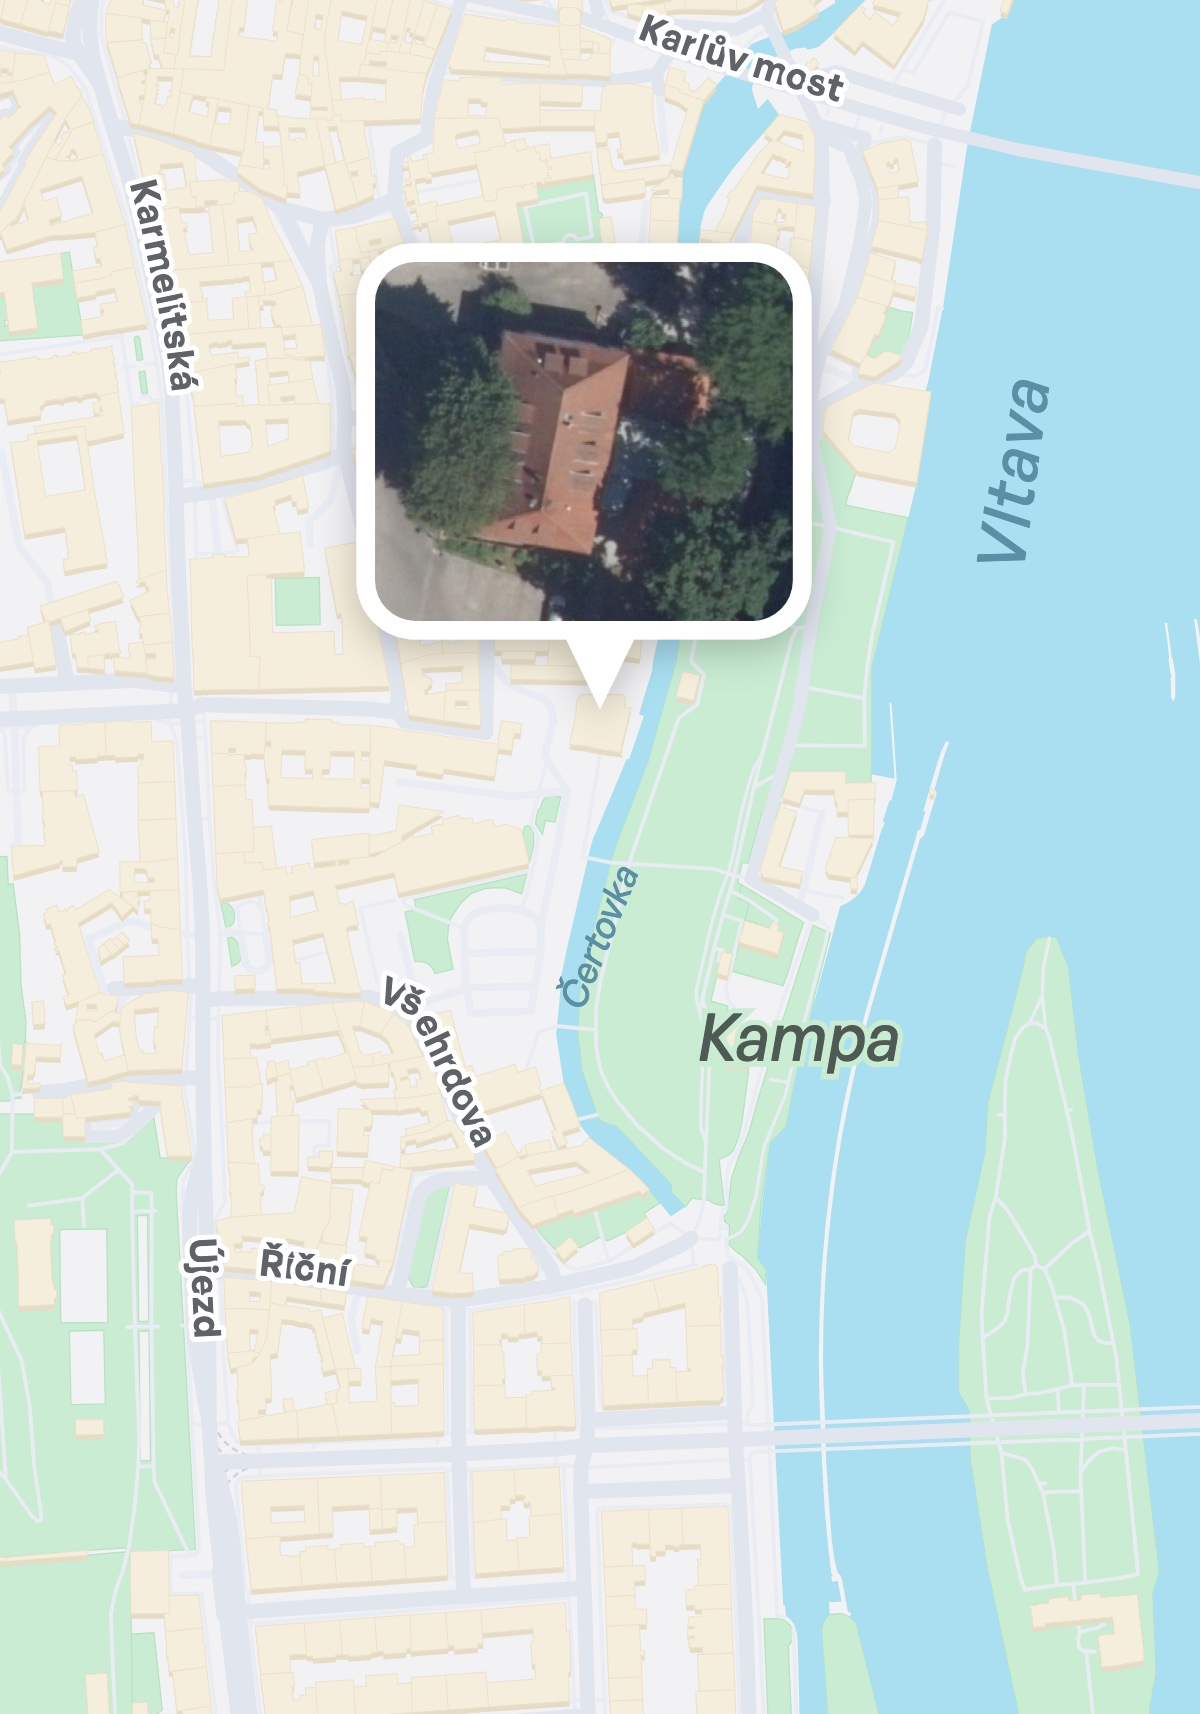
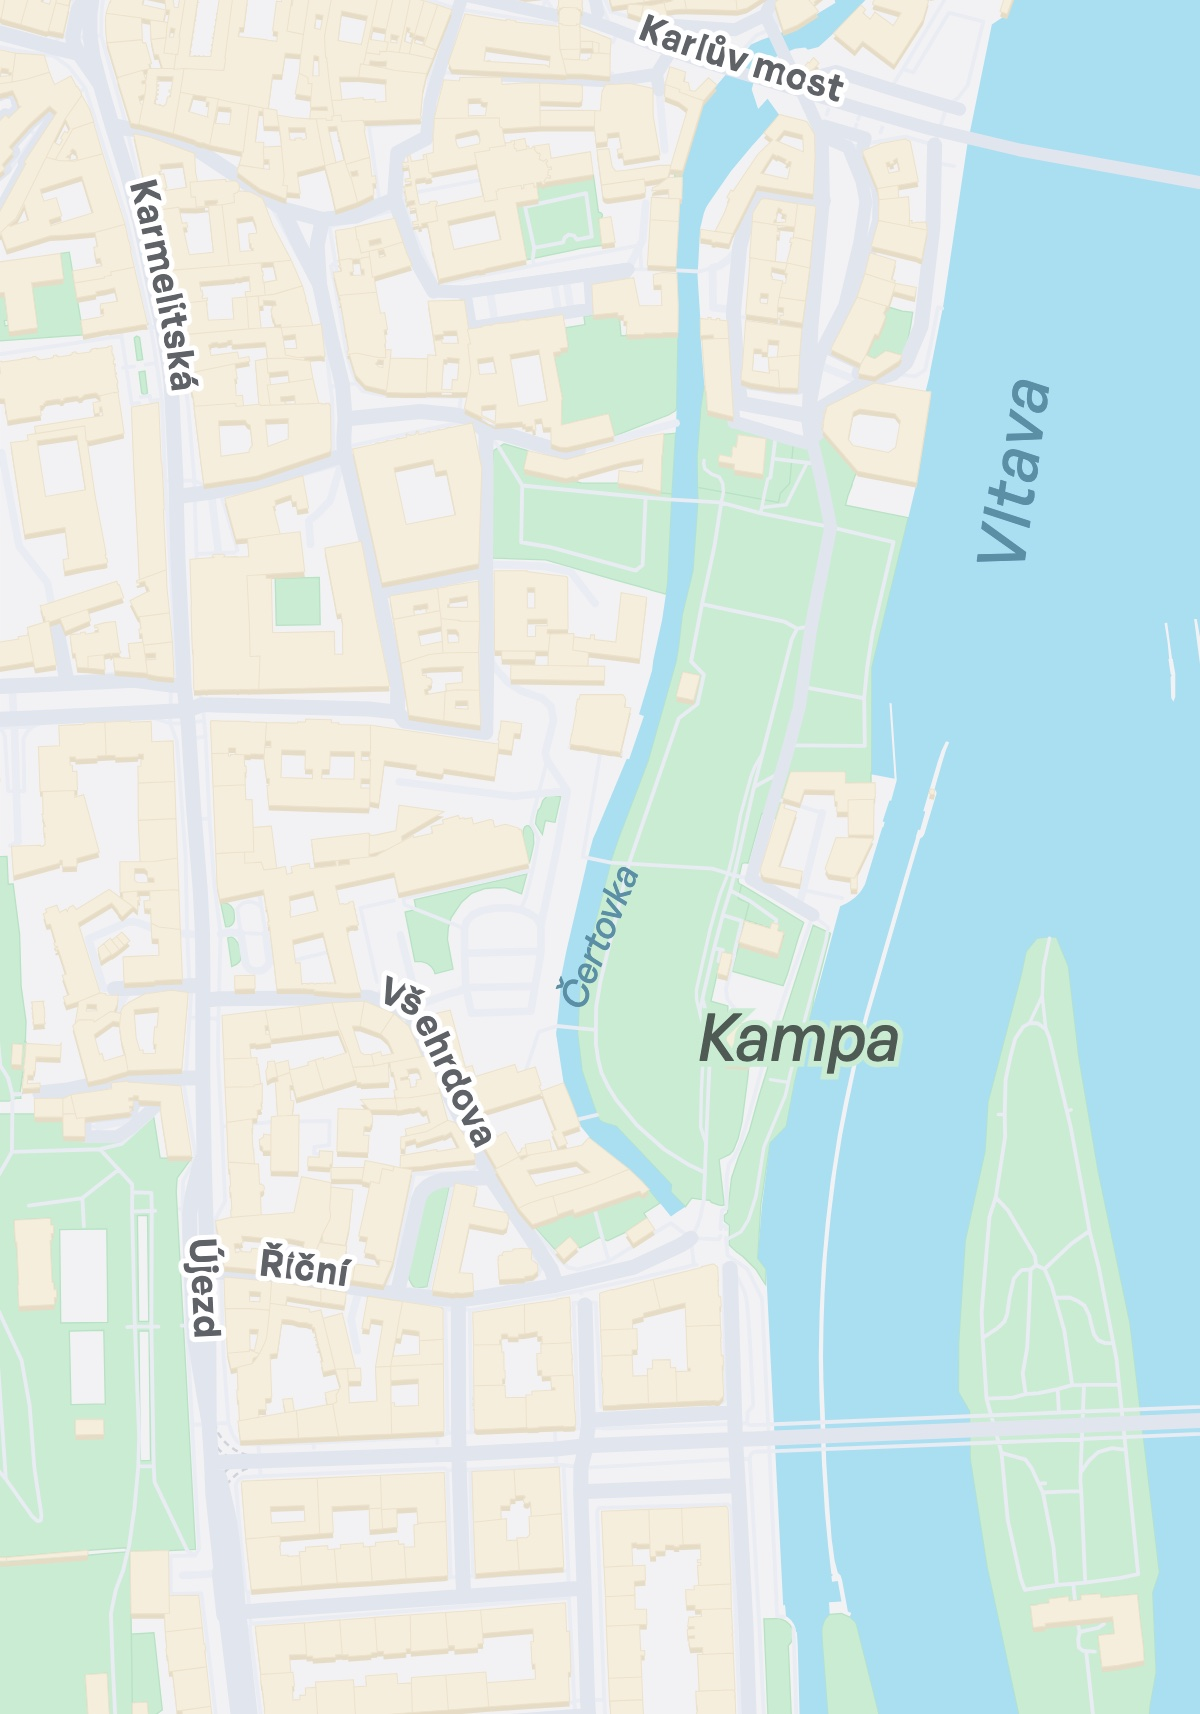
fix(map): bubble never fades; stronger arched fade in the corners
The photo bubble is rendered as its own transparent layer on top of the map,
aligned with the same crop, so the edge fade only applies to the map.
Desktop and mobile fades now melt the top corners and sides into the paper
like the canvas design.

Changed region(s): [[0.2775, 0.1237, 0.6783, 0.402]]

diff --git a/src/app/globals.css b/src/app/globals.css
@@ -366,12 +366,12 @@
 
 /* The canvas map's soft arched edge: the map melts into the paper along the top and the corners. */
 .map-fade {
-  -webkit-mask-image: radial-gradient(ellipse 120% 100% at 50% 100%, #000 72%, rgba(0, 0, 0, 0.55) 86%, transparent 99%);
-  mask-image: radial-gradient(ellipse 120% 100% at 50% 100%, #000 72%, rgba(0, 0, 0, 0.55) 86%, transparent 99%);
+  -webkit-mask-image: radial-gradient(ellipse 105% 96% at 50% 100%, #000 64%, rgba(0, 0, 0, 0.45) 84%, transparent 99%);
+  mask-image: radial-gradient(ellipse 105% 96% at 50% 100%, #000 64%, rgba(0, 0, 0, 0.45) 84%, transparent 99%);
 }
 @media (min-width: 1024px) {
   .map-fade {
-    -webkit-mask-image: radial-gradient(ellipse 74% 112% at 46% 100%, #000 58%, rgba(0, 0, 0, 0.5) 77%, transparent 93%);
-    mask-image: radial-gradient(ellipse 74% 112% at 46% 100%, #000 58%, rgba(0, 0, 0, 0.5) 77%, transparent 93%);
+    -webkit-mask-image: radial-gradient(ellipse 56% 112% at 47% 100%, #000 60%, rgba(0, 0, 0, 0.5) 84%, transparent 100%);
+    mask-image: radial-gradient(ellipse 56% 112% at 47% 100%, #000 60%, rgba(0, 0, 0, 0.5) 84%, transparent 100%);
   }
 }

diff --git a/src/components/MapSection.tsx b/src/components/MapSection.tsx
@@ -5,7 +5,9 @@ import type { Locale } from "@/i18n/locales";
 import { buttonClass } from "@/components/ui/button";
 
 import map from "../../public/images/map-kampa.jpg";
+import bubble from "../../public/images/map-kampa-bubble.png";
 import mapMobile from "../../public/images/map-kampa-mobile.jpg";
+import bubbleMobile from "../../public/images/map-kampa-mobile-bubble.png";
 
 type Address = {
   street?: string | null;
@@ -86,6 +88,9 @@ export async function MapSection({
         placeholder="blur"
         className="map-fade object-cover object-[100%_100%] max-lg:hidden"
       />
+      {/* The photo bubble sits on its own layer, aligned with the map but never faded. */}
+      <Image src={bubbleMobile} alt="" fill sizes="100vw" quality={90} className="object-cover object-top lg:hidden" />
+      <Image src={bubble} alt="" fill sizes="100vw" quality={90} className="object-cover object-[100%_100%] max-lg:hidden" />
       <a
         href="https://www.openstreetmap.org/copyright"
         target="_blank"
